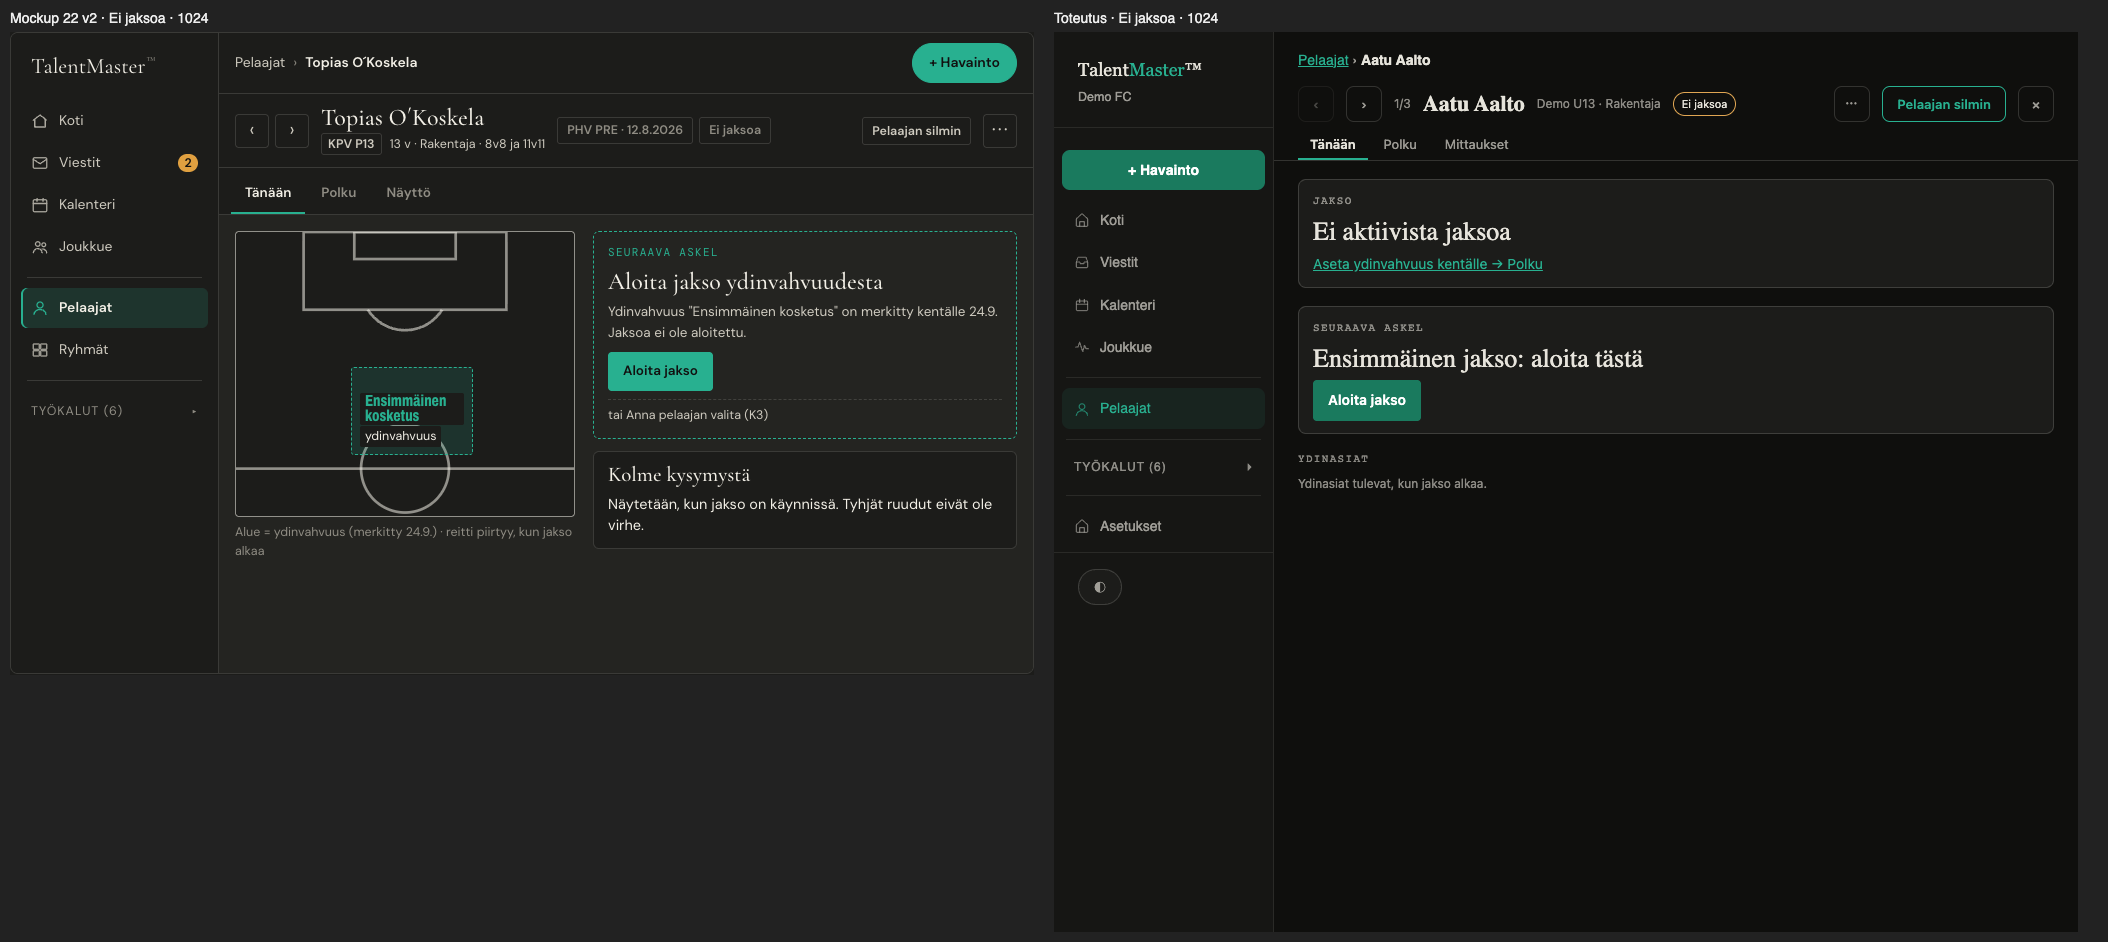
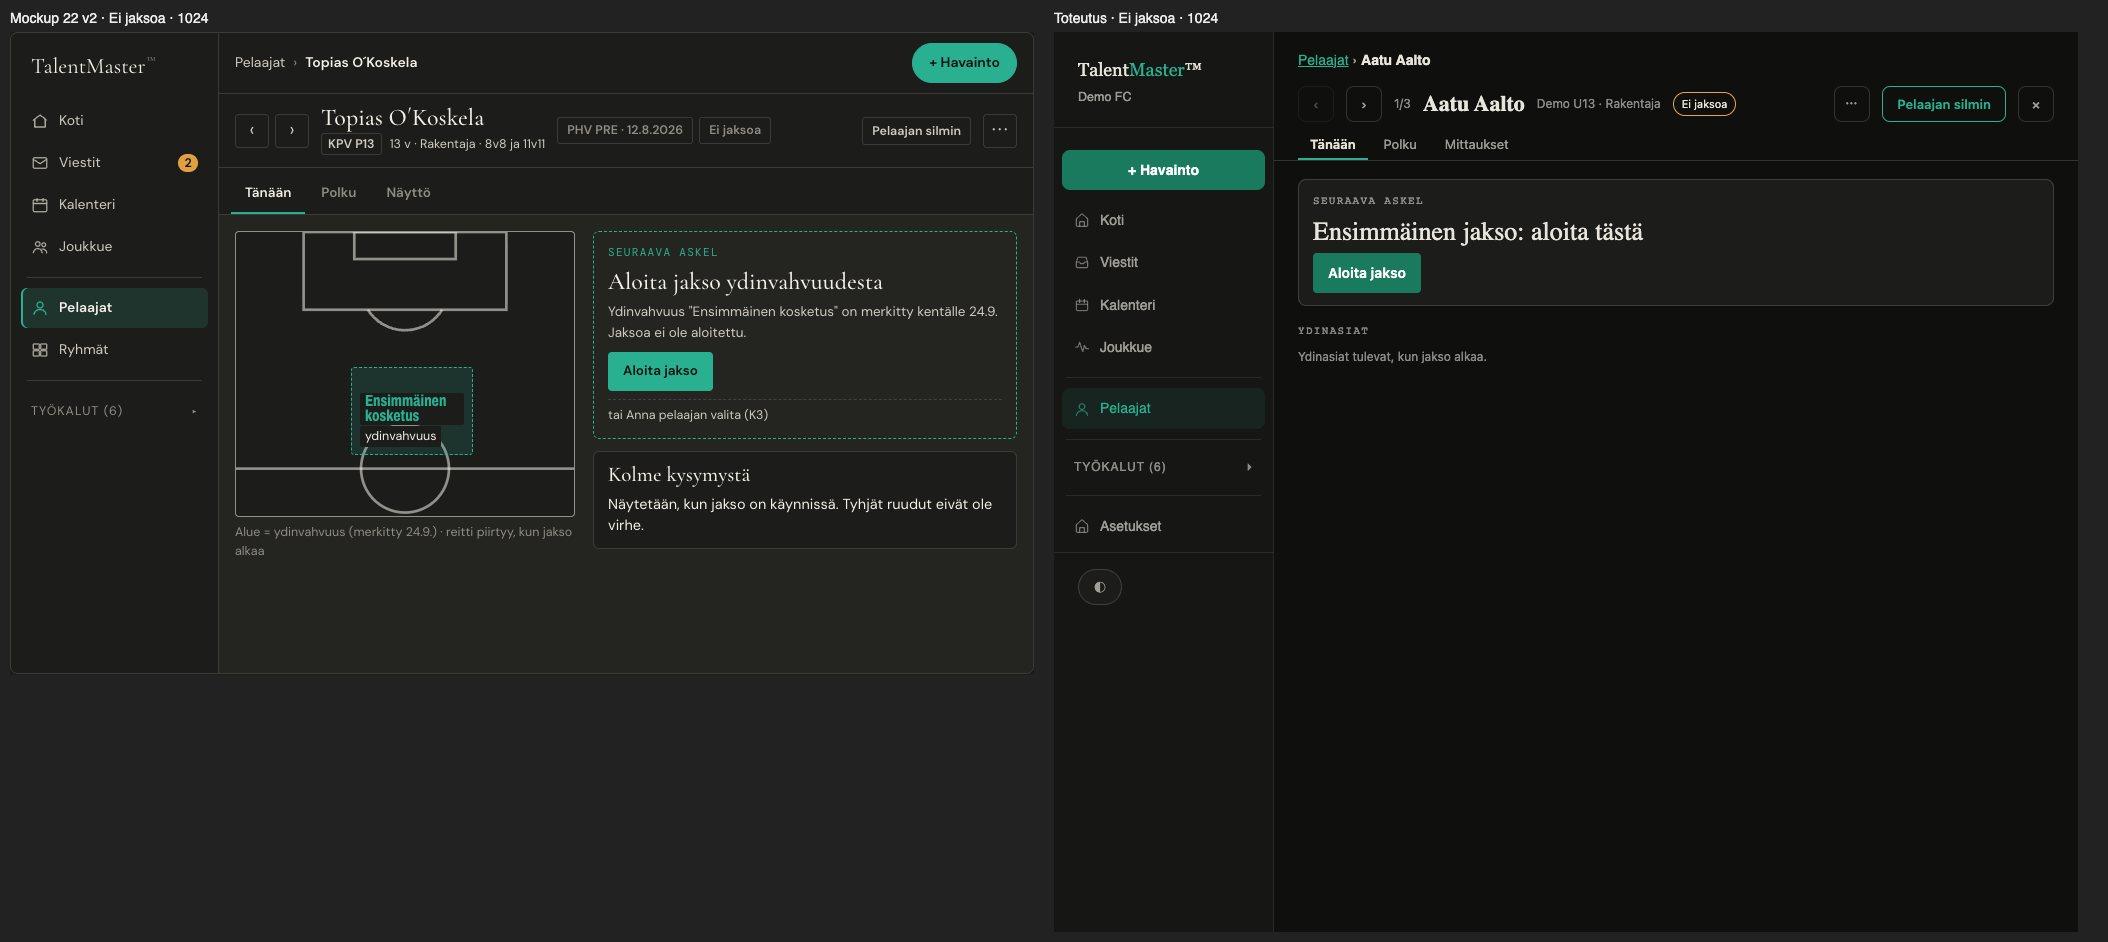
Kehitystyöpöytä 22 B2c: aloituslista 2–5 (arvioi pois, jakso-kortin sirut pois, ei jaksoa = yksi kortti, max 960 px)

Changed region(s): [[0.6167, 0.2155, 0.8017, 0.5234]]

diff --git a/lib/tm_kehitystyopoyta.js b/lib/tm_kehitystyopoyta.js
@@ -271,7 +271,7 @@
   function tmKtOsatHTML(d, c) {
     d = d || {}; c = c || {}; var esc = c.esc || _esc, t = function (k) { return _txt(c, k); }, osat = d.osat || [];
     var rivit = osat.length ? osat.map(function (o) {
-      var on = !!(d.viikonOsa && d.viikonOsa.k === o.k), cls = 'kt-osa-r' + (on ? ' on' : (o.tila === 'itsenaisesti' ? ' ok' : '')), st = on ? t('kt_st_viikon_osa') : (o.tila ? t(TILA_ST[o.tila]) : t('kt_st_arvioi')), m = tmKtOsaMeta(o, c), mer = m.meta;
+      var on = !!(d.viikonOsa && d.viikonOsa.k === o.k), cls = 'kt-osa-r' + (on ? ' on' : (o.tila === 'itsenaisesti' ? ' ok' : '')), st = on ? t('kt_st_viikon_osa') : (o.tila ? t(TILA_ST[o.tila]) : (c.v2 === true ? '' : t('kt_st_arvioi'))), m = tmKtOsaMeta(o, c), mer = m.meta;   // v2 (uusi sivu): arvioimaton osa = tyhjä tila-sarake, ei "arvioi"-tekstiä
       var eroaa = m.eroavat ? ' · <span class="kt-eroavat" role="button" tabindex="0" data-kt-eroavat onclick="event.stopPropagation();this.closest(\'[data-kt-osa]\').classList.toggle(\'auki\')">' + esc(t('kt_arviot_eroavat')) + '</span>' : '';
       var sis = '<span class="kt-osa-k">' + esc(o.k) + '</span><span>' + esc(o.nimi) + '</span><span class="kt-osa-st' + (!on && !o.tila ? ' arvioi' : '') + '">' + esc(st) + '</span>' + (mer ? '<span class="kt-osa-mer kt-hk" data-kt-merkinnat>' + tmKtHk(esc(mer)) + eroaa + '</span>' : '')
         + (m.eroavat ? '<span class="kt-osa-kaikki kt-hk" data-kt-kaikki-arviot>' + m.kaikki.map(function (x) { return '<span>' + tmKtHk(esc(x)) + '</span>'; }).join('') + '</span>' : '');   // .kt-hk: "Pelaajan silmin" piilottaa merkintärivit
@@ -376,7 +376,7 @@
   function tmKtJaksoKorttiHTML(d, c) {
     d = d || {}; c = c || {}; var esc = c.esc || _esc, t = function (k) { return _txt(c, k); }, osat = d.osat || [], vo = d.viikonOsa;
     var meta = [d.viikko ? t('kt_vk_lyhyt') + ' ' + d.viikko.n + '/' + d.viikko.k : '', d.katselmus ? t('kt_katselmus') + ' ' + _pvmTxt(c, d.katselmus) : ''].filter(Boolean).join(' · ');
-    var chips = osat.map(function (o) { var on = !!(vo && vo.k === o.k), st = on ? t('kt_st_viikon_osa') : (o.tila ? t(TILA_ST[o.tila]) : t('kt_st_arvioi')); return '<span class="kt-chip' + (on ? ' kt-chip-ok' : '') + '" data-kt-jk-osa="' + esc(o.koodi || o.k) + '">' + esc(o.k + ' · ' + st) + '</span>'; }).join('');
+    var chips = c.v2 === true ? '' : osat.map(function (o) { var on = !!(vo && vo.k === o.k), st = on ? t('kt_st_viikon_osa') : (o.tila ? t(TILA_ST[o.tila]) : t('kt_st_arvioi')); return '<span class="kt-chip' + (on ? ' kt-chip-ok' : '') + '" data-kt-jk-osa="' + esc(o.koodi || o.k) + '">' + esc(o.k + ' · ' + st) + '</span>'; }).join('');
     var cta = d.asetaAlueFn ? '<div class="kt-jk-cta"><button type="button" class="kt-linkki" data-kt-aseta-alue onclick="' + esc(d.asetaAlueFn) + '">' + esc(t('kt_aseta_alue')) + '</button></div>' : '';   // B1: ei aluetta → ei tyhjää kenttää: jaksokortti + CTA Polkuun
     return '<div class="kt-ev kt-jk" data-kt-jaksokortti><span class="kt-eb">' + esc(t('kt_jakso')) + '</span><div class="kt-ev-h">' + esc(d.nimi || t('kt_ei_jaksoa_kortti')) + '</div>'
       + (meta ? '<div class="kt-jk-meta">' + tmKtHk(esc(meta)) + '</div>' : '') + (chips ? '<div class="kt-jk-osat">' + chips + '</div>' : '') + cta + '</div>';
@@ -414,10 +414,10 @@
     var sigHTML = TS && e ? TS.tmTanaanSignaaliHTML(sig, { esc: esc, t: c.t, toimiFn: c.toimiFn, pid: p.id, hk: c.hk || tmKtHk, why: why, sisalto: paneeli, piilotaNappi: paneeliOikea, alarivit: ala }) : (paneeli ? '<div class="kt-sig n">' + paneeli + '</div>' : '');
     var T = nakyy && PT ? PT.tmPolunTila(p, { askel: sg.askel ? { avain: sg.askel.avain, tila: sg.askel.tila } : null, blokit: null }) : null;
     var qHTML = T ? tmKtKysymyksetHTML({ osat: osat, viikonOsa: vo, vk: c.vk, sit: sit, nakyy: nakyy, q1pvm: tmKtHavaintoPvm(vo ? [vo] : osat), tauko: kal.tauko, seuraava: kal.seuraava }, { esc: esc, t: c.t, pvmFn: c.pvmFn, toimiFn: c.toimiFn, pid: p.id }) : '';
-    var osatHTML = tmKtOsatHTML({ osat: osat, viikonOsa: vo, jaksoNimi: jf && jf.konsepti_nimi }, { esc: esc, t: c.t, osaFn: c.paneeli && c.voiKirjoittaa ? c.osaFn : null, pid: p.id, nimet: c.nimet });
+    var osatHTML = tmKtOsatHTML({ osat: osat, viikonOsa: vo, jaksoNimi: jf && jf.konsepti_nimi }, { esc: esc, t: c.t, osaFn: c.paneeli && c.voiKirjoittaa ? c.osaFn : null, pid: p.id, nimet: c.nimet, v2: c.v2 });
     var KSP = _req('TM_KENTTA_SPEC', './tm_kentta_spec.js'), spec = KSP ? KSP.tmKenttaSpec(p, { rooli: 'henkilokunta', tanaan: c.tanaan, kaanon: c.kaanon }) : null, alue = spec ? (spec.alueAsetettu ? spec.ase.alue : null) : tmKtAlue(p);   // B1: YKSI adapteri (lib/tm_kentta_spec.js); puuttuessa (välimuisti) vanha käytös
     var kenttaHTML = alue ? (typeof c.kenttaFn === 'function' ? c.kenttaFn(alue, p, spec) : (c.kentta || ''))
-      : tmKtJaksoKorttiHTML({ nimi: jf && jf.konsepti_nimi, viikko: viikko, osat: osat, viikonOsa: vo, katselmus: _katselmusIso(jf), kaynnissa: kaynnissa, asetaAlueFn: c.voiKirjoittaa !== false && c.toimiFn ? c.toimiFn + "('" + p.id + "','avaa_polku')" : '' }, { esc: esc, t: c.t, pvmFn: c.pvmFn });   // ei aluetta (D98) → EI kenttäpiirrosta: jaksokortti + CTA samaan kohtaan; alue → tmKentta (reitti, viikkomerkit, osat adapterista)
+      : (c.v2 === true && !(jf && (jf.konsepti_nimi || jf.konsepti_avain || jf.ohjelma)) ? '' : tmKtJaksoKorttiHTML({ nimi: jf && jf.konsepti_nimi, viikko: viikko, osat: osat, viikonOsa: vo, katselmus: _katselmusIso(jf), kaynnissa: kaynnissa, asetaAlueFn: c.voiKirjoittaa !== false && c.toimiFn ? c.toimiFn + "('" + p.id + "','avaa_polku')" : '' }, { v2: c.v2, esc: esc, t: c.t, pvmFn: c.pvmFn }));   // ei aluetta (D98) → EI kenttäpiirrosta: jaksokortti + CTA samaan kohtaan; alue → tmKentta (reitti, viikkomerkit, osat adapterista)
     return tmKtTanaanHTML({ ilmanKenttaa: c.v2 === true && !alue, kenttaHTML: kenttaHTML, signaaliHTML: sigHTML, kysymyksetHTML: qHTML, osatHTML: osatHTML });
   }
 

diff --git a/tests/b2c_ulkoasu_selain.test.js b/tests/b2c_ulkoasu_selain.test.js
@@ -67,14 +67,27 @@ describe.skipIf(!(process.env.TM_CHROME_TESTS !== '0' && CHROME))('B2c · ulkoas
       const v = await p.evaluate(() => {
         const probe = document.createElement('i'); probe.style.color = 'var(--ink3)'; document.body.appendChild(probe); const ink3 = getComputedStyle(probe).color, amber = (probe.style.color = 'var(--amber)', getComputedStyle(probe).color); probe.remove();
         const cs = (s) => getComputedStyle(document.querySelector(s));
-        return { ink3, amber, eb: cs('.kt-eb').color, siru: cs('[data-kt-rivitila="ei_jaksoa"]').borderTopColor, sigBr: cs('.kt-sig').borderTopColor, sigStyle: cs('.kt-sig').borderTopStyle, jkBr: cs('.kt-jk').borderTopColor, sigW: cs('.kt-sig').borderTopWidth, jkW: cs('.kt-jk').borderTopWidth, sigR: cs('.kt-sig').borderTopLeftRadius, jkR: cs('.kt-jk').borderTopLeftRadius };
+        return { ink3, amber, eb: cs('.kt-eb').color, siru: cs('[data-kt-rivitila="ei_jaksoa"]').borderTopColor, sigBr: cs('.kt-sig').borderTopColor, sigStyle: cs('.kt-sig').borderTopStyle, sigW: cs('.kt-sig').borderTopWidth, sigR: cs('.kt-sig').borderTopLeftRadius };
       });
-      expect(v.eb).toBe(v.ink3); expect(v.siru).toBe(v.amber); expect(v.sigStyle).toBe('solid'); expect(v.sigBr).toBe(v.jkBr); expect(v.sigW).toBe(v.jkW); expect(v.sigR).toBe(v.jkR);
+      expect(v.eb).toBe(v.ink3); expect(v.siru).toBe(v.amber); expect(v.sigStyle).toBe('solid'); expect(v.sigW).toBe('1px'); expect(v.sigR).toBe('8px');
       await sk.close();
       const q = await kaynnista(selain, { rooli: 'valmentaja', hash: '#pelaaja/p2/tanaan' }); await odota(q.p);
-      const w = await q.p.evaluate(() => { const cs = (s) => getComputedStyle(document.querySelector(s)); return [cs('.kt-sig').borderTopColor, cs('.kt-q').borderTopColor, cs('.kt-osa-r:not(.on)').borderTopColor, cs('.kt-jk').borderTopColor, cs('.kt-q').borderTopLeftRadius, cs('.kt-osa-r').borderTopLeftRadius, cs('.kt-jk').borderTopLeftRadius, cs('.kt-sig').borderTopWidth, cs('.kt-q').borderTopWidth, cs('.kt-osa-r').borderTopWidth]; });
+      const w = await q.p.evaluate(() => { const cs = (s) => getComputedStyle(document.querySelector(s)); return [cs('.kt-sig').borderTopColor, cs('.kt-q').borderTopColor, cs('.kt-osa-r:not(.on)').borderTopColor, cs('.kt-ev, .kt-q').borderTopColor, cs('.kt-q').borderTopLeftRadius, cs('.kt-osa-r').borderTopLeftRadius, cs('.kt-sig').borderTopLeftRadius, cs('.kt-sig').borderTopWidth, cs('.kt-q').borderTopWidth, cs('.kt-osa-r').borderTopWidth]; });
       expect(new Set(w.slice(0, 4)).size).toBe(1); expect(new Set(w.slice(4, 7)).size).toBe(1); expect(new Set(w.slice(7)).size).toBe(1);
       await q.sk.close();
+    } finally { await selain.close(); }
+  }, 60000);
+  it('B2c-2: "arvioi"-teksti pois tila-sarakkeesta; Jakso-kortin sirut pois; ei jaksoa -tilassa vain YKSI kortti (Seuraava askel); sisältö enintään 960 px', async () => {
+    await avaa(); try {
+      const a = await kaynnista(selain, { rooli: 'valmentaja', hash: '#pelaaja/p2/tanaan', leveys: 1280 }); await odota(a.p);
+      const t = await a.p.evaluate(() => document.body.innerText); expect(t).not.toMatch(/\barvioi\b/); expect(await a.p.locator('[data-kt-jk-osa]').count()).toBe(0);
+      expect(await a.p.locator('.kt-osa-r:not(.on) .kt-osa-st').allInnerTexts()).toEqual(['', '', '', '']);   // arvioimaton osa = tyhjä tila
+      const lev = await a.p.evaluate(() => Math.round(document.querySelector('.kt-sivu:not([hidden])').getBoundingClientRect().width)); expect(lev).toBeLessThanOrEqual(960);
+      await a.sk.close();
+      const b = await kaynnista(selain, { rooli: 'valmentaja', hash: '#pelaaja/p1/tanaan', leveys: 1280 }); await odota(b.p);
+      expect(await b.p.locator('.kt-tanaan .kt-ev, .kt-tanaan .kt-sig, .kt-tanaan .kt-q, .kt-tanaan [data-kt-jaksokortti]').count()).toBe(1);
+      expect(await b.p.locator('.kt-sig').count()).toBe(1); expect(await b.p.locator('[data-kt-jaksokortti]').count()).toBe(0);
+      await b.sk.close();
     } finally { await selain.close(); }
   }, 60000);
 });

diff --git a/TalentMaster_Master_v16.html b/TalentMaster_Master_v16.html
@@ -166,7 +166,7 @@ window.TM_KAAVIO_HOST = {
 <script src="lib/tm_aamutreeni.js?v=1"></script>   <!-- K35-6d: aamutreeni = harjoituksen esiasetus (poimitut pelaajat, viikoittain) -->
 <script src="lib/tm_kalenteri_taytto.js?v=5"></script>   <!-- K35-6a: Täytä viikko -ohjain (D184) -->
 <script src="lib/tm_kalenteri_omat.js?v=2"></script>   <!-- K35-6d: joukkueen omat (vapaa, erikoisohjelma, joukkueen valmennuspalaveri; D240–D242) -->
-<script src="lib/tm_kehitystyopoyta.js?v=20"></script>   <!-- V4a: Kehitystyöpöytä V4 -kehys (otsikkorivi, välilehdet, Tänään) -->
+<script src="lib/tm_kehitystyopoyta.js?v=22"></script>   <!-- V4a: Kehitystyöpöytä V4 -kehys (otsikkorivi, välilehdet, Tänään) -->
 <script src="lib/tm_jakso_malli.js?v=4"></script>   <!-- B 2/3: ohjelma → jakson tukiosa (tmOhjelmaTukiosaan / tmLiitaTukiosaan) -->   <!-- R6.1b: jaksofokuksen yhteinen kirjoitusydin (tmAsetaJaksofokus / tmSuljeJakso) -->
 <script src="lib/tm_seuraava_askel.js?v=3"></script>   <!-- R6.2b: seuraava toimenpide yhdessä paikassa (tmSeuraavaAskel / tmSeuraavaJakso / tmTeeTastaOsa) -->
 <script src="lib/tm_fyysteemat.js?v=4"></script>   <!-- Vaihe 7: fyysinen teemaluettelo + D1-fokuslähde + evidenssi (fysiikkavalmentaja) -->

diff --git a/TalentMaster_Kehitystyopoyta.html b/TalentMaster_Kehitystyopoyta.html
@@ -56,7 +56,7 @@
 <script src="lib/tm_kalenteri_tyypit.js?v=4"></script>
 <script src="lib/tm_kalenteri_kyselyt.js?v=3"></script>
 <script src="lib/tm_valmentaja_nav.js?v=3"></script>
-<script src="lib/tm_kehitystyopoyta.js?v=20"></script>
+<script src="lib/tm_kehitystyopoyta.js?v=22"></script>
 <script src="lib/tm_jakso_malli.js?v=4"></script>
 <script src="lib/tm_vastuuhenkilo.js?v=1"></script>
 <script src="lib/tm_koti_oletus.js?v=1"></script>
@@ -117,7 +117,8 @@ a { color:inherit; text-decoration:none; }
 #ktJuuri .kt-eb, #ktJuuri .kt-otsikko-pieni { color:var(--ink3); }
 /* sisältö alkaa samasta vasemmasta reunasta kuin murupolku, nimi ja välilehdet (24 px) */
 #ktJuuri .kt-ot { padding:10px 24px 0; }
-#ktJuuri .kt-sivu { max-width:none; margin:0; padding:18px 24px 40px; }
+#ktJuuri .kt-sivu { max-width:960px; margin:0; padding:18px 24px 40px; }   /* sisältö enintään ~960 px, vasemmassa reunassa */
+#ktJuuri .kt-t-kentta:empty { display:none; }
 #ktJuuri .kt-tanaan.kt-ei-kenttaa { grid-template-columns:minmax(0,1fr); }
 #ktJuuri .kt-ot-rivi { gap:10px 12px; }
 /* kortit: yksi reuna (1 px --line2) ja yksi kulma (8 px); Seuraava askel neutraali, ei katkoviivaa (katkoviiva vain D160:n jaksottomien kortilla Kodissa) */

diff --git a/TalentMaster_VP_v25.html b/TalentMaster_VP_v25.html
@@ -160,7 +160,7 @@ window.TM_KAAVIO_HOST = {
 <script src="lib/tm_kt_komponentit.js?v=4"></script>   <!-- mockup 22 jaetut komponentit (.kt-sig, .kt-btn, .kt-eb, .kt-q3, .kt-ev) — YKSI CSS-paikka (Kehitystyöpöytä + Seuran pulssi) -->
 <script src="lib/tm_kalenteri_tyypit.js?v=4"></script>   <!-- K35-1: kalenterin tyyppirekisteri (D186) -->
 <script src="lib/tm_kalenteri_kyselyt.js?v=3"></script>   <!-- K35-1: tauko + seuraava tapahtuma (D193) -->
-<script src="lib/tm_kehitystyopoyta.js?v=20"></script>   <!-- V4a: Kehitystyöpöytä V4 -kehys -->
+<script src="lib/tm_kehitystyopoyta.js?v=22"></script>   <!-- V4a: Kehitystyöpöytä V4 -kehys -->
 <script src="lib/tm_kehityssilmukka.js?v=2"></script>   <!-- R6.2a: katselmus yhteen paikkaan (tmKirjaaKatselmus) + jaksofokuksen kirjoitusydin -->
 <script src="lib/tm_seuraava_askel.js?v=3"></script>   <!-- R6.2b: seuraava toimenpide yhdessä paikassa (tmSeuraavaAskel / tmSeuraavaJakso / tmTeeTastaOsa) -->
 <script src="lib/tm_fyysteemat.js?v=4"></script>   <!-- Vaihe 7: fyysinen teemaluettelo + D1-fokuslähde + evidenssi (delta §29 + PHV-portti §28) -->
